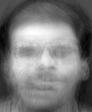
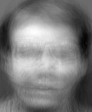
fixed segfault by adding one more image to att.csv. fixed unequal train/test images by setting all images to image[0].size()

diff --git a/trainer.cpp b/trainer.cpp
@@ -110,11 +110,11 @@ int main(int argc, const char *argv[]) {
 		//printf("Image %d size %d\n", i, images[i].size().height * images[i].size().width);
 	}
         for(int i=0; i < att_images.size(); i++) {
-	        resize(att_images[i],att_images[i],att_images[0].size(),0,0, INTER_NEAREST);
+	        resize(att_images[i],att_images[i],images[0].size(),0,0, INTER_NEAREST);
 	        //printf("Image %d size %d\n", i, test_images[i].size().height * test_images[i].size().width);
 	}	
         for(int i=0; i < test_images.size(); i++) {
-	        resize(test_images[i],test_images[i],test_images[0].size(),0,0, INTER_NEAREST);
+	        resize(test_images[i],test_images[i],images[0].size(),0,0, INTER_NEAREST);
 	        //printf("Image %d size %d\n", i, test_images[i].size().height * test_images[i].size().width);
 	}	
 
@@ -148,16 +148,17 @@ int main(int argc, const char *argv[]) {
 		vector<int> labels_i;
 		for (int j = i * 36; j < i*36 + 36; j++) {
 			images_i.push_back(att_images[j]);
+			printf("i:%d j:%d images success\n", i, j);
 			labels_i.push_back(att_labels[j]);
-			printf("i:%d j:%d success", i, j); 
+			printf("i:%d j:%d labels success\n", i, j); 
 		}
 		Ptr<FaceRecognizer> model = createEigenFaceRecognizer();
 		model->train(images_i, labels_i);
-		printf("i:%d create and train works!", i);
+		printf("i:%d create and train works!\n", i);
 		Mat mean = model->getMat("mean");
-		printf("i:%d mean works!", i);
+		printf("i:%d mean works!\n", i);
 		imwrite(format("%s/mean%d.png", mean_folder.c_str(), i), norm_0_255(mean.reshape(1, att_images[0].rows)));
-		printf("i:%d save works!", i);
+		printf("i:%d save works!\n", i);
 	}
 
 
